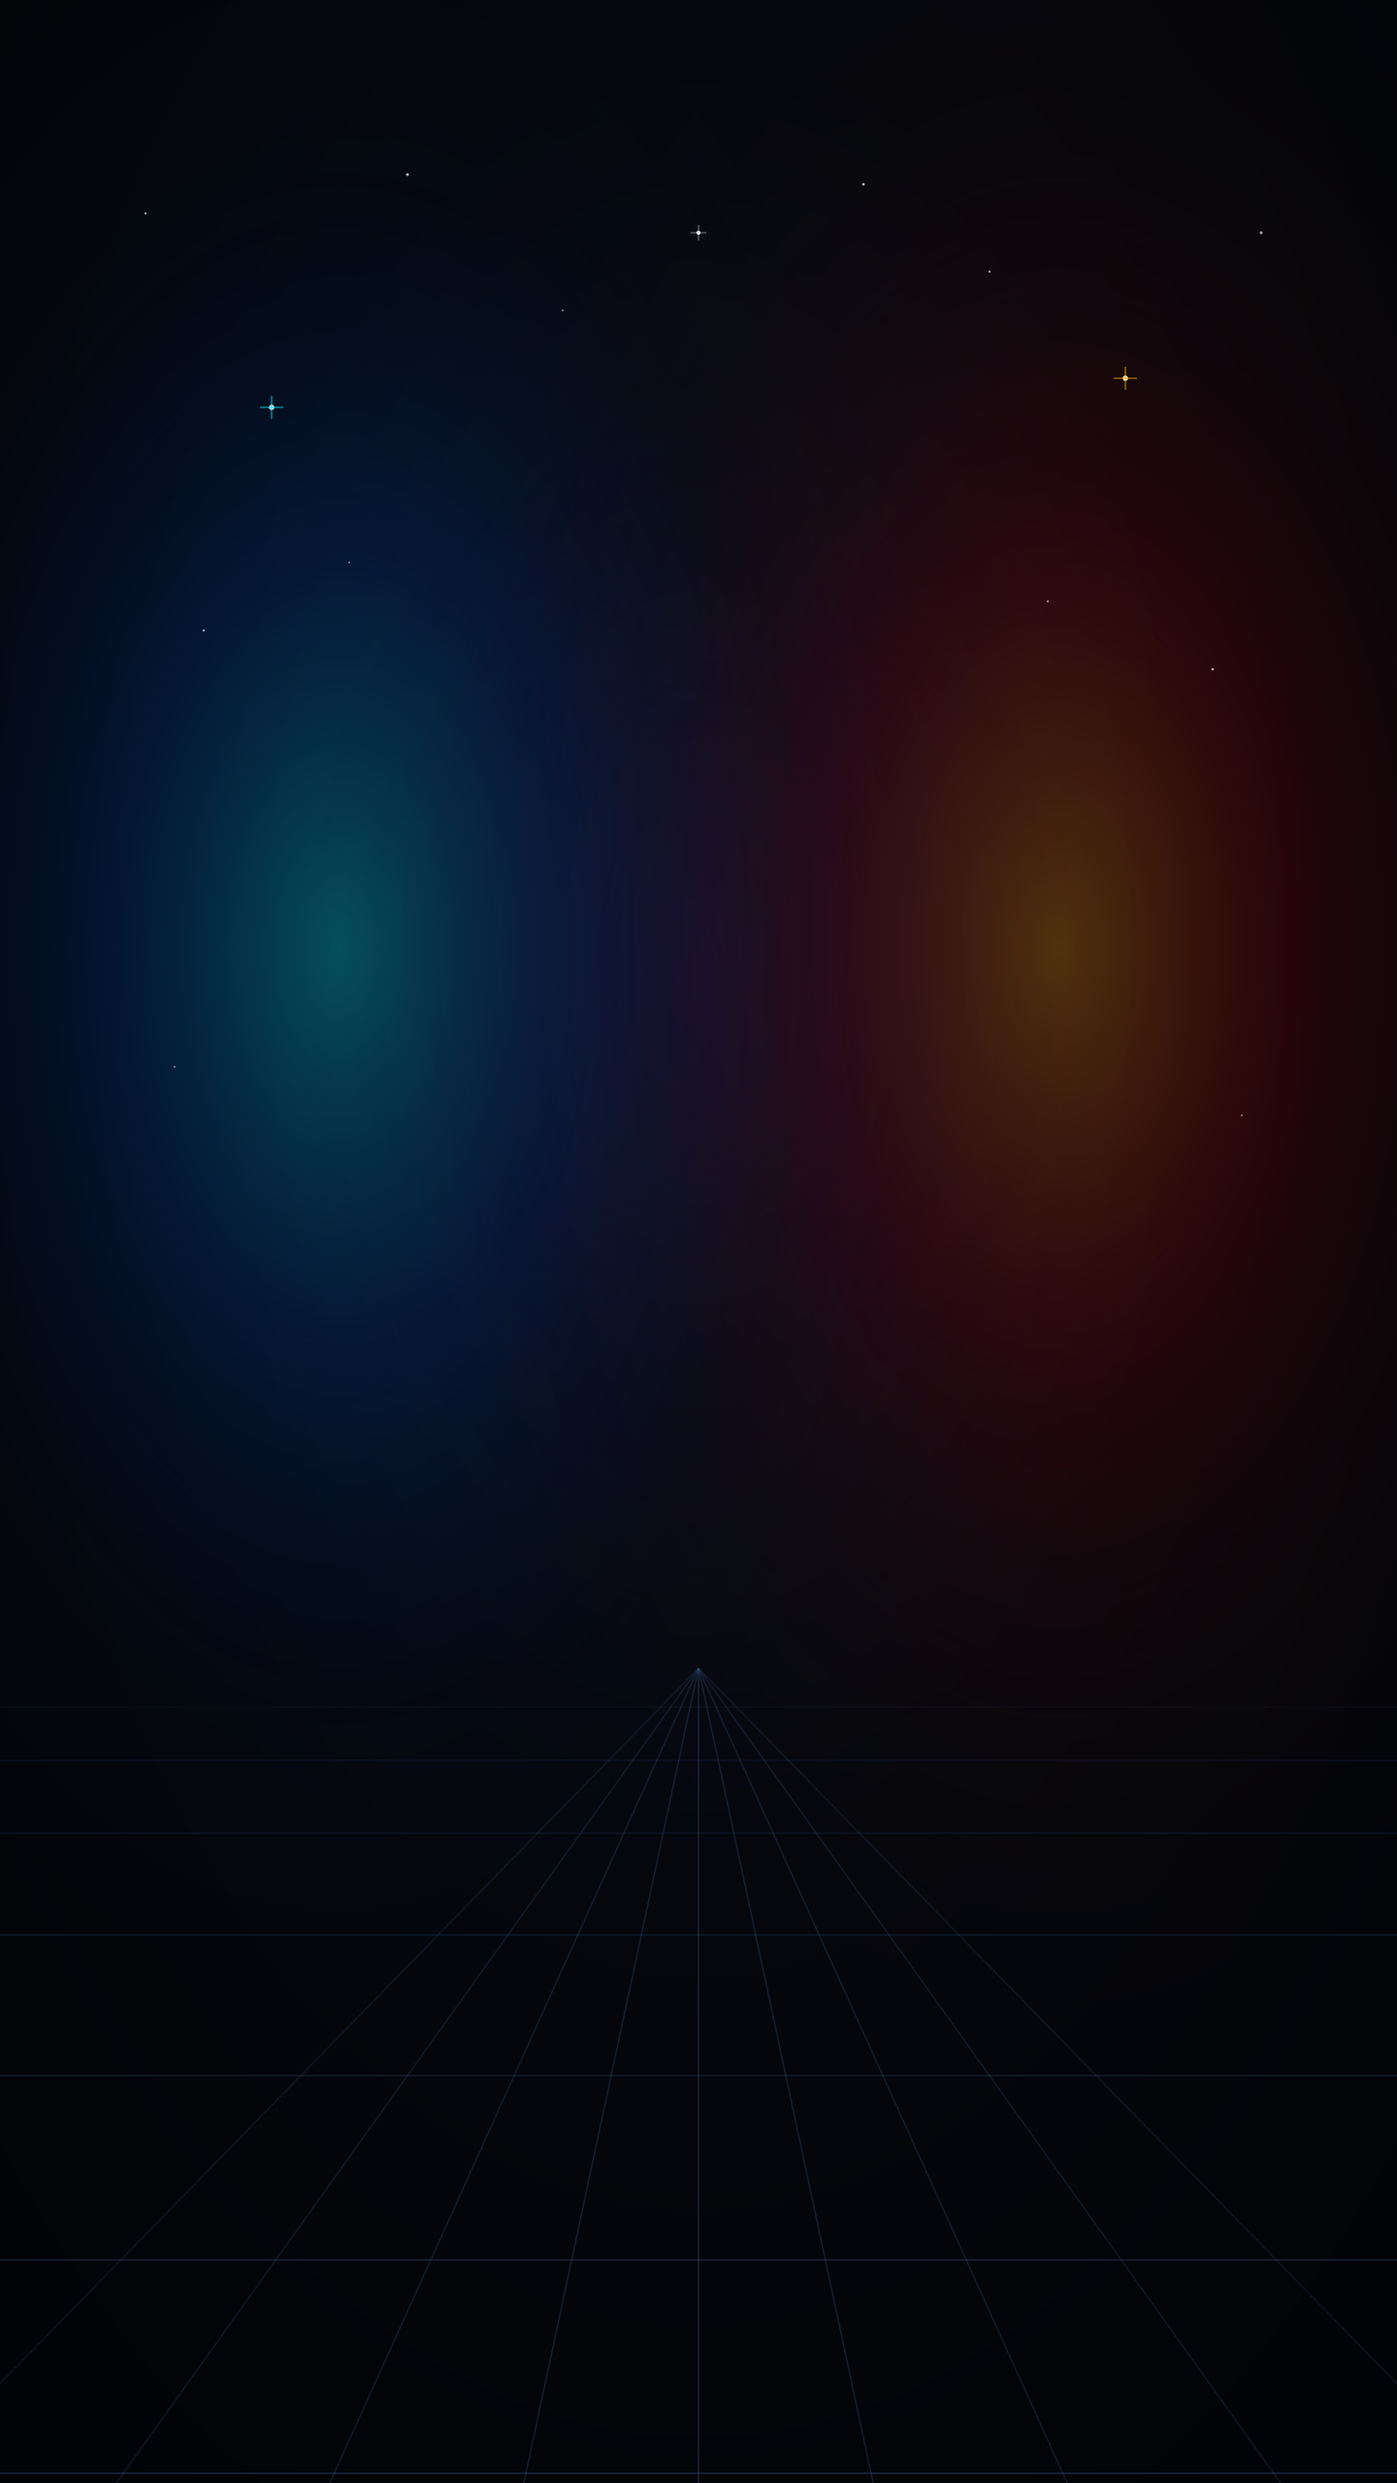
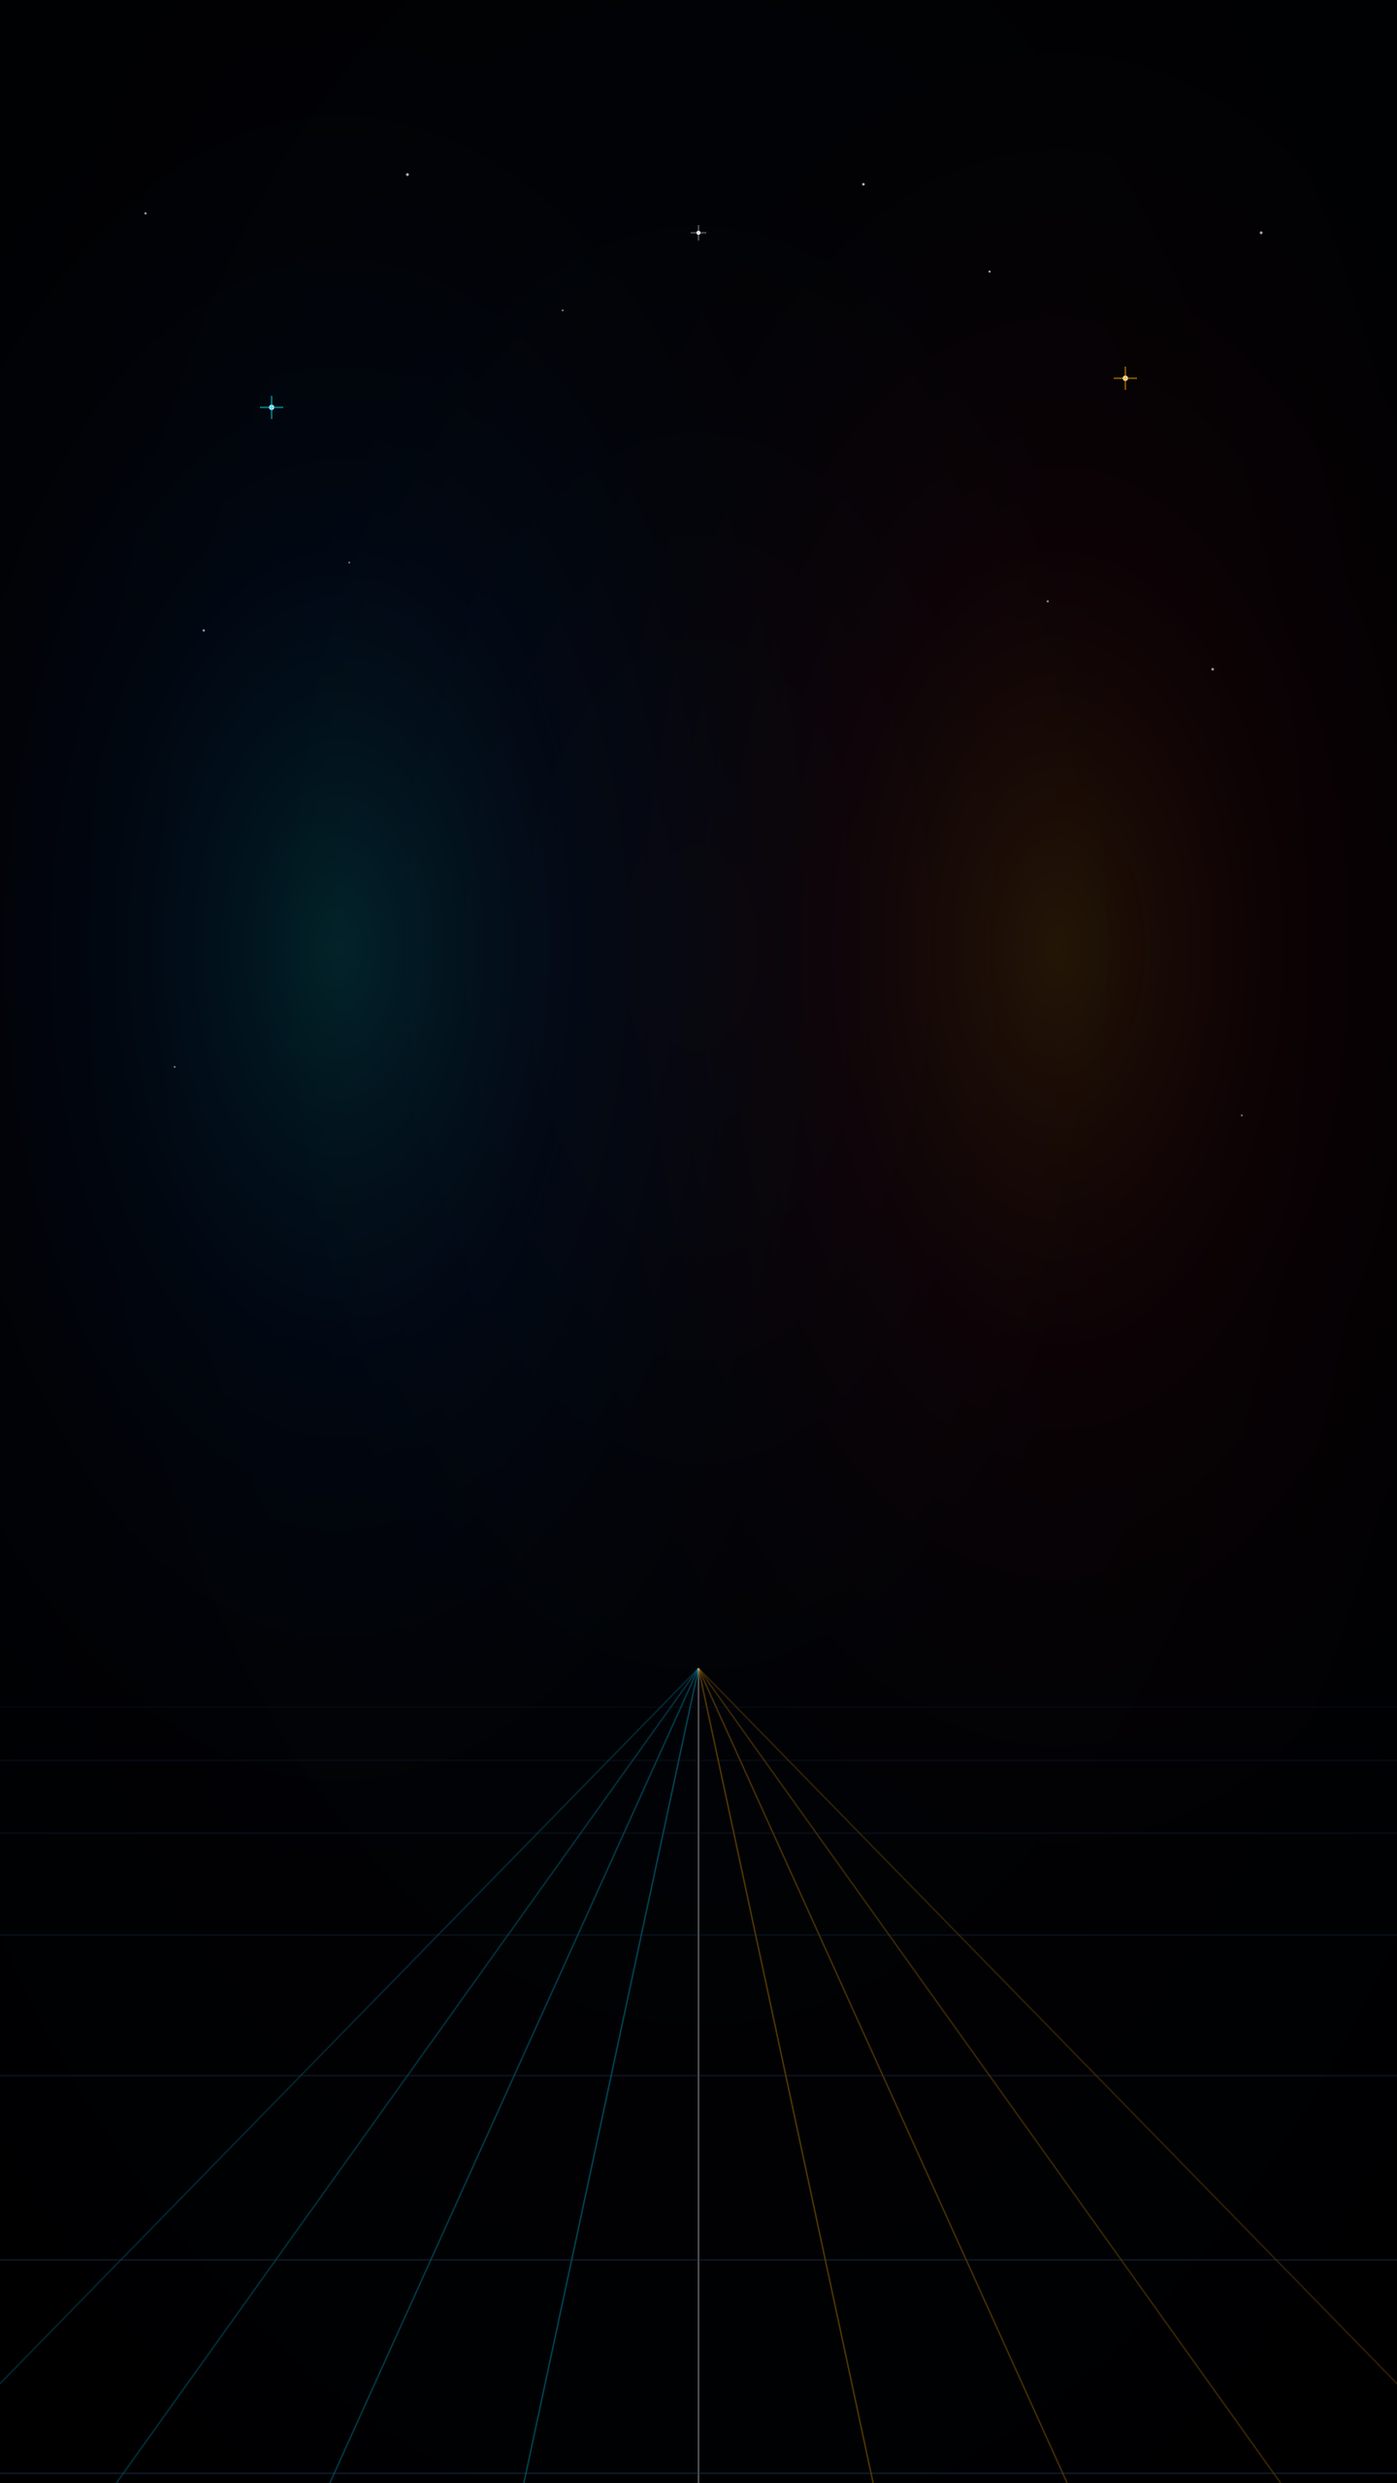
feat(video): add dynamic cosmic particle generation
Implement `get_or_create_dark_void_particles` to procedurally generate drifting starfield overlays and update the background SVG to use an OLED-optimized color palette.

Changed region(s): [[0.0312, 0.1562, 0.5312, 0.625], [0.5625, 0.1875, 0.9375, 0.5625], [0.5, 0.6875, 0.5312, 0.7188]]

diff --git a/video/orb.py b/video/orb.py
@@ -728,16 +728,91 @@ def get_or_create_orb_asset(
     )
 
 
+def get_or_create_dark_void_particles(
+    target_dir: Optional[Path] = None,
+    force_refresh: bool = False
+) -> Path:
+    """
+    Generates or retrieves a transparent looping (30 fps) QuickTime MOV containing
+    drifting luminous cosmic dust motes, stellar embers, and subtle starfield twinkling.
+    """
+    dest_dir = target_dir or (Path(__file__).resolve().parent.parent / "assets" / "backgrounds")
+    dest_dir.mkdir(parents=True, exist_ok=True)
+    out_mov = dest_dir / "dark_void_particles.mov"
+
+    if not force_refresh and out_mov.exists() and out_mov.stat().st_size > 50000:
+        return out_mov
+
+    import random
+    width, height = 720, 1280
+    fps = 30
+    total_frames = 90
+    temp_dir = dest_dir / "_temp_particles_gen"
+    temp_dir.mkdir(parents=True, exist_ok=True)
+
+    random.seed(42)
+    particles = []
+    for _ in range(50):
+        particles.append({
+            "x": random.uniform(20, width - 20),
+            "y": random.uniform(0, height),
+            "r": random.uniform(1.2, 3.5),
+            "speed": random.uniform(40, 120),
+            "drift_x": random.uniform(-25, 25),
+            "base_alpha": random.uniform(0.35, 0.95),
+            "color": random.choice(["#00f0ff", "#00d4ff", "#ffffff", "#ffaa00", "#ff6600", "#e0f7fa"]),
+            "twinkle_freq": random.uniform(1.5, 4.0),
+            "twinkle_phase": random.uniform(0, math.pi * 2)
+        })
+
+    try:
+        for f in range(total_frames):
+            t_ratio = f / total_frames
+            svg_elements = []
+            
+            for p in particles:
+                cur_y = (p["y"] - p["speed"] * t_ratio) % height
+                cur_x = (p["x"] + p["drift_x"] * math.sin(2 * math.pi * t_ratio)) % width
+                twinkle = 0.65 + 0.35 * math.sin(2 * math.pi * p["twinkle_freq"] * t_ratio + p["twinkle_phase"])
+                alpha = p["base_alpha"] * twinkle
+                r = p["r"]
+                svg_elements.append(f"""<circle cx="{cur_x:.1f}" cy="{cur_y:.1f}" r="{r*2.2:.1f}" fill="{p["color"]}" fill-opacity="{alpha*0.35:.2f}"/>""")
+                svg_elements.append(f"""<circle cx="{cur_x:.1f}" cy="{cur_y:.1f}" r="{r:.1f}" fill="{p["color"]}" fill-opacity="{alpha:.2f}"/>""")
+                svg_elements.append(f"""<circle cx="{cur_x:.1f}" cy="{cur_y:.1f}" r="{r*0.4:.1f}" fill="#ffffff" fill-opacity="{alpha*0.9:.2f}"/>""")
+
+            svg_content = f"""<svg xmlns="http://www.w3.org/2000/svg" viewBox="0 0 {width} {height}" width="{width}" height="{height}">
+              <rect width="{width}" height="{height}" fill="#000000" fill-opacity="0.0"/>
+              {"".join(svg_elements)}
+            </svg>"""
+            (temp_dir / f"frame_{f:04d}.svg").write_text(svg_content, encoding="utf-8")
+
+        cmd = [
+            "ffmpeg", "-y",
+            "-framerate", str(fps),
+            "-i", str(temp_dir / "frame_%04d.svg"),
+            "-c:v", "qtrle",
+            "-pix_fmt", "argb",
+            str(out_mov)
+        ]
+        subprocess.run(cmd, check=True, stdout=subprocess.PIPE, stderr=subprocess.PIPE)
+    except Exception as e:
+        print(f"  ⚠ Warning: Failed to generate animated particles loop ({e})")
+    finally:
+        shutil.rmtree(temp_dir, ignore_errors=True)
+
+    return out_mov
+
+
 def get_or_create_cosmic_stage_background(
     target_dir: Optional[Path] = None,
     force_refresh: bool = False
 ) -> Path:
     """
-    Generates or retrieves a high-resolution (1440x2560) master Cosmic Parallax Stage asset.
+    Generates or retrieves a high-resolution (1440x2560) master Deep OLED Cosmic Void Stage asset.
     Features:
-      - Deep space void with dual cosmic domain nebulae (Cyan Quantum left, Amber Solar right).
-      - 3D perspective cyber horizon floor grid for optical depth anchoring.
-      - Multiscale starfield with diffraction anchor stars and glowing nebula cores.
+      - Pitch-black OLED deep space canvas for maximum bioluminescent orb contrast.
+      - Discrete cosmic cyber horizon floor grid for optical 3D depth.
+      - Subtle directional starfield anchors.
     """
     dest_dir = target_dir or (Path(__file__).resolve().parent.parent / "assets" / "backgrounds")
     dest_dir.mkdir(parents=True, exist_ok=True)
@@ -749,62 +824,54 @@ def get_or_create_cosmic_stage_background(
 
     svg_content = """<svg xmlns="http://www.w3.org/2000/svg" viewBox="0 0 1440 2560" width="1440" height="2560">
   <defs>
+    <!-- Pitch Black OLED Void -->
     <radialGradient id="bgDeep" cx="50%" cy="38%" r="75%">
-      <stop offset="0%" stop-color="#0b1020"/>
-      <stop offset="50%" stop-color="#05070d"/>
-      <stop offset="100%" stop-color="#020306"/>
+      <stop offset="0%" stop-color="#04060c"/>
+      <stop offset="45%" stop-color="#010205"/>
+      <stop offset="100%" stop-color="#000001"/>
     </radialGradient>
-    <radialGradient id="nebulaQuantum" cx="24%" cy="38%" r="48%">
-      <stop offset="0%" stop-color="#00e5ff" stop-opacity="0.32"/>
-      <stop offset="35%" stop-color="#0055d4" stop-opacity="0.18"/>
-      <stop offset="70%" stop-color="#001844" stop-opacity="0.06"/>
+    <radialGradient id="nebulaQuantum" cx="24%" cy="38%" r="42%">
+      <stop offset="0%" stop-color="#00e5ff" stop-opacity="0.14"/>
+      <stop offset="40%" stop-color="#0055d4" stop-opacity="0.06"/>
       <stop offset="100%" stop-color="#000000" stop-opacity="0.0"/>
     </radialGradient>
-    <radialGradient id="nebulaSolar" cx="76%" cy="38%" r="48%">
-      <stop offset="0%" stop-color="#ff9100" stop-opacity="0.30"/>
-      <stop offset="35%" stop-color="#d50000" stop-opacity="0.16"/>
-      <stop offset="70%" stop-color="#4a0e00" stop-opacity="0.06"/>
-      <stop offset="100%" stop-color="#000000" stop-opacity="0.0"/>
-    </radialGradient>
-    <radialGradient id="singularityCore" cx="50%" cy="40%" r="30%">
-      <stop offset="0%" stop-color="#2a0845" stop-opacity="0.15"/>
+    <radialGradient id="nebulaSolar" cx="76%" cy="38%" r="42%">
+      <stop offset="0%" stop-color="#ff9100" stop-opacity="0.13"/>
+      <stop offset="40%" stop-color="#d50000" stop-opacity="0.05"/>
       <stop offset="100%" stop-color="#000000" stop-opacity="0.0"/>
     </radialGradient>
   </defs>
 
-  <!-- Deep Cosmic Canvas -->
+  <!-- Deep OLED Black Void Canvas -->
   <rect width="1440" height="2560" fill="url(#bgDeep)"/>
 
-  <!-- Left Cyan Quantum Domain Atmosphere -->
+  <!-- Left Subtle Cyan Quantum Atmosphere -->
   <rect width="1440" height="2560" fill="url(#nebulaQuantum)"/>
 
-  <!-- Right Amber Solar Domain Atmosphere -->
+  <!-- Right Subtle Amber Solar Atmosphere -->
   <rect width="1440" height="2560" fill="url(#nebulaSolar)"/>
 
-  <!-- Central Cosmic Singularity Void -->
-  <rect width="1440" height="2560" fill="url(#singularityCore)"/>
-
   <!-- 3D Perspective Cyber Floor Grid (Horizon at y=1720) -->
-  <g stroke="#3a6096" stroke-opacity="0.22" stroke-width="1.5">
+  <g stroke="#24426b" stroke-opacity="0.26" stroke-width="1.6">
     <!-- Receding Vanishing Perspective Lines -->
-    <line x1="720" y1="1720" x2="-100" y2="2560" stroke-opacity="0.18"/>
-    <line x1="720" y1="1720" x2="120" y2="2560" stroke-opacity="0.22"/>
-    <line x1="720" y1="1720" x2="340" y2="2560" stroke-opacity="0.25"/>
-    <line x1="720" y1="1720" x2="540" y2="2560" stroke-opacity="0.28"/>
-    <line x1="720" y1="1720" x2="720" y2="2560" stroke-opacity="0.32"/>
-    <line x1="720" y1="1720" x2="900" y2="2560" stroke-opacity="0.28"/>
-    <line x1="720" y1="1720" x2="1100" y2="2560" stroke-opacity="0.25"/>
-    <line x1="720" y1="1720" x2="1320" y2="2560" stroke-opacity="0.22"/>
-    <line x1="720" y1="1720" x2="1540" y2="2560" stroke-opacity="0.18"/>
+    <line x1="720" y1="1720" x2="-100" y2="2560" stroke="#00d4ff" stroke-opacity="0.18"/>
+    <line x1="720" y1="1720" x2="120" y2="2560" stroke="#00d4ff" stroke-opacity="0.22"/>
+    <line x1="720" y1="1720" x2="340" y2="2560" stroke="#00d4ff" stroke-opacity="0.26"/>
+    <line x1="720" y1="1720" x2="540" y2="2560" stroke="#00d4ff" stroke-opacity="0.30"/>
+    <line x1="720" y1="1720" x2="720" y2="2560" stroke="#ffffff" stroke-opacity="0.35"/>
+    <line x1="720" y1="1720" x2="900" y2="2560" stroke="#ffaa00" stroke-opacity="0.30"/>
+    <line x1="720" y1="1720" x2="1100" y2="2560" stroke="#ffaa00" stroke-opacity="0.26"/>
+    <line x1="720" y1="1720" x2="1320" y2="2560" stroke="#ffaa00" stroke-opacity="0.22"/>
+    <line x1="720" y1="1720" x2="1540" y2="2560" stroke="#ffaa00" stroke-opacity="0.18"/>
     
     <!-- Perspective Depth Rings (Exponential Distance Compression) -->
-    <line x1="0" y1="1760" x2="1440" y2="1760" stroke-opacity="0.08"/>
-    <line x1="0" y1="1815" x2="1440" y2="1815" stroke-opacity="0.12"/>
-    <line x1="0" y1="1890" x2="1440" y2="1890" stroke-opacity="0.16"/>
-    <line x1="0" y1="1995" x2="1440" y2="1995" stroke-opacity="0.20"/>
-    <line x1="0" y1="2140" x2="1440" y2="2140" stroke-opacity="0.26"/>
-    <line x1="0" y1="2330" x2="1440" y2="2330" stroke-opacity="0.32"/>
-    <line x1="0" y1="2550" x2="1440" y2="2550" stroke-opacity="0.38"/>
+    <line x1="0" y1="1760" x2="1440" y2="1760" stroke-opacity="0.10"/>
+    <line x1="0" y1="1815" x2="1440" y2="1815" stroke-opacity="0.14"/>
+    <line x1="0" y1="1890" x2="1440" y2="1890" stroke-opacity="0.18"/>
+    <line x1="0" y1="1995" x2="1440" y2="1995" stroke-opacity="0.22"/>
+    <line x1="0" y1="2140" x2="1440" y2="2140" stroke-opacity="0.28"/>
+    <line x1="0" y1="2330" x2="1440" y2="2330" stroke-opacity="0.34"/>
+    <line x1="0" y1="2550" x2="1440" y2="2550" stroke-opacity="0.40"/>
   </g>
 
   <!-- Ambient Stars and Constellation Anchors -->
@@ -1442,11 +1509,13 @@ def render_orb_test_preview(
     escaped_ass_path = str(ass_sub_path.resolve()).replace("\\", "/").replace(":", "\\:").replace("'", "\\'")
 
     # Procedural Camera-Synced Master Cosmic Parallax Stage (1440x2560)
-    cosmic_stage_path = get_or_create_cosmic_stage_background()
+    cosmic_stage_path = get_or_create_cosmic_stage_background(force_refresh=True)
+    particles_path = get_or_create_dark_void_particles()
 
-    # Build FFmpeg command inputs (cosmic stage, wide talk, wide idle, close-up frontal talk for both hosts)
+    # Build FFmpeg command inputs (cosmic stage, particles loop, wide talk, wide idle, close-up frontal talk for both hosts)
     cmd_inputs = [
         "-stream_loop", "-1", "-i", str(cosmic_stage_path),
+        "-stream_loop", "-1", "-i", str(particles_path),
         "-stream_loop", "-1", "-i", str(orb_q_talk),
         "-stream_loop", "-1", "-i", str(orb_q_idle),
         "-stream_loop", "-1", "-i", str(orb_q_close_talk),
@@ -1454,7 +1523,7 @@ def render_orb_test_preview(
         "-stream_loop", "-1", "-i", str(orb_s_idle),
         "-stream_loop", "-1", "-i", str(orb_s_close_talk),
     ]
-    curr_input_idx = 7
+    curr_input_idx = 8
 
     holo_q_idx = None
     if has_holo_q:
@@ -1482,7 +1551,9 @@ def render_orb_test_preview(
     else:
         cmd_inputs.extend(["-f", "lavfi", "-i", "anullsrc=r=44100:cl=stereo"])
 
-    pre_scale_lines = []
+    pre_scale_lines = [
+        f"[1:v]scale={width}:{height},format=yuva420p[particles_stream]"
+    ]
     if has_holo_q and holo_q_idx is not None:
         pre_scale_lines.append(f"[{holo_q_idx}:v]scale=540:-2,format=yuva420p[holo_q]")
     if has_holo_s and holo_s_idx is not None:
@@ -1505,7 +1576,8 @@ def render_orb_test_preview(
     # Camera-Synced Cosmic Parallax Transform lines per scene
     bg_parallax_lines = [
         f"[0:v]split={bg_splits}" + "".join(f"[bg_raw_{k}]" for k in range(bg_splits)),
-        f"[bg_raw_{num_scenes}]crop=w={width}:h={height}:x='(in_w-out_w)/2':y='(in_h-out_h)/2',format=yuva420p[bg_base]"
+        f"[bg_raw_{num_scenes}]crop=w={width}:h={height}:x='(in_w-out_w)/2':y='(in_h-out_h)/2',format=yuva420p[bg_base_raw]",
+        f"[bg_base_raw][particles_stream]overlay=format=auto[bg_base]"
     ]
 
     for idx, sc in enumerate(scene_records):
@@ -1543,12 +1615,12 @@ def render_orb_test_preview(
     filter_complex = [
         *pre_scale_lines,
         *bg_parallax_lines,
-        f"[1:v]split={max(1, q_talk_uses)}" + "".join(f"[q_talk_{k}]" for k in range(max(1, q_talk_uses))),
-        f"[2:v]split={max(1, q_idle_uses)}" + "".join(f"[q_idle_{k}]" for k in range(max(1, q_idle_uses))),
-        f"[3:v]split={max(1, q_close_uses)}" + "".join(f"[q_close_{k}]" for k in range(max(1, q_close_uses))),
-        f"[4:v]split={max(1, s_talk_uses)}" + "".join(f"[s_talk_{k}]" for k in range(max(1, s_talk_uses))),
-        f"[5:v]split={max(1, s_idle_uses)}" + "".join(f"[s_idle_{k}]" for k in range(max(1, s_idle_uses))),
-        f"[6:v]split={max(1, s_close_uses)}" + "".join(f"[s_close_{k}]" for k in range(max(1, s_close_uses))),
+        f"[2:v]split={max(1, q_talk_uses)}" + "".join(f"[q_talk_{k}]" for k in range(max(1, q_talk_uses))),
+        f"[3:v]split={max(1, q_idle_uses)}" + "".join(f"[q_idle_{k}]" for k in range(max(1, q_idle_uses))),
+        f"[4:v]split={max(1, q_close_uses)}" + "".join(f"[q_close_{k}]" for k in range(max(1, q_close_uses))),
+        f"[5:v]split={max(1, s_talk_uses)}" + "".join(f"[s_talk_{k}]" for k in range(max(1, s_talk_uses))),
+        f"[6:v]split={max(1, s_idle_uses)}" + "".join(f"[s_idle_{k}]" for k in range(max(1, s_idle_uses))),
+        f"[7:v]split={max(1, s_close_uses)}" + "".join(f"[s_close_{k}]" for k in range(max(1, s_close_uses))),
 
         # Background Ambient Luminescence (Ultra-smooth diffuse glow via 120x120 3-pass boxblur)
         f"[q_idle_0]scale=120:120,eq={eq_q},hue={hue_q},boxblur=26:3,scale={width}:{height},format=yuva420p,colorchannelmixer=aa=0.22[bg_glow_q]",
